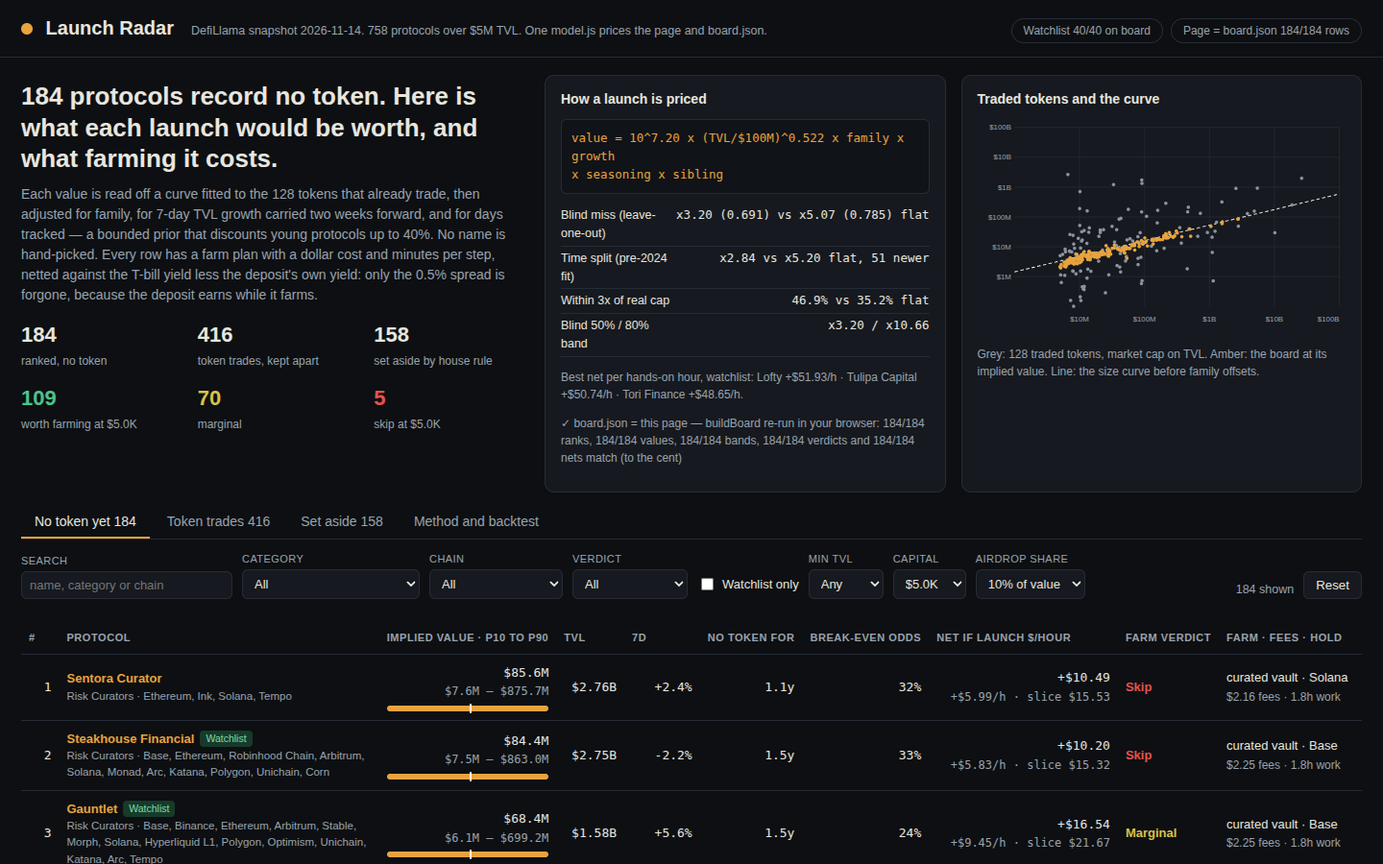
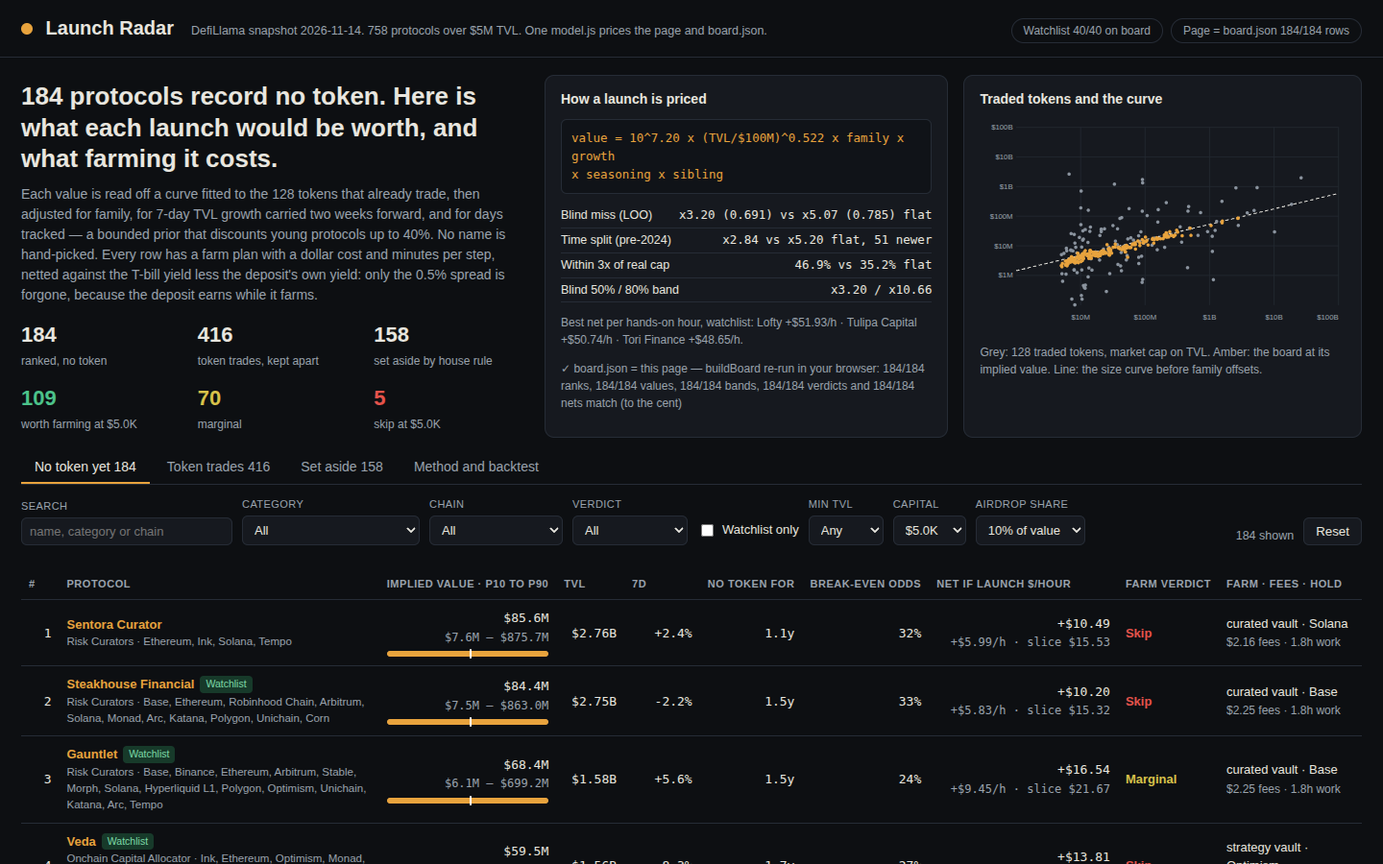
v10: perfection audit — fix 3 mayor + 7 minor defects, numbers unchanged
Mayor: (1) compareFitSets now refits the curve per fold like validate(),
so the fit-set blind miss agrees with the ablation table (x3.20 vs x3.30,
was x3.16 vs x3.27 fixed-curve); (2) seasoning claim corrected — it moves
the median blind miss by ~0.05x (x3.25 off, x3.20 on), not <0.01x;
(3) 'half the board within two points of 10% (median 9.1%)' was false —
60 of 184 (median 9.0%), now computed live. Minor: named-for-chain
watchlist disclosure (2 more at full value), sensitivity wording, fee
range $2.16-$2.25, stale model.js comments (seasoning x2.80, growth
101-token/every-cut, fitPoint exclusions), method split into short
paragraphs, hero mini labels one line, $1K counts now computed.
board.json byte-identical to v9.

diff --git a/dashboard/app.js b/dashboard/app.js
@@ -179,8 +179,8 @@
     $("formula").textContent = "value = 10^" + (Math.log10(per100)).toFixed(2) + " x (TVL/$100M)^" + D.curve.b.toFixed(3) + " x family x growth\nx seasoning x sibling";
     var v = D.validation;
     $("validation-mini").innerHTML =
-      "<tr><td>Blind miss (leave-one-out)</td><td>x" + v.looMedian.toFixed(2) + " (" + v.looMeanAbsLog.toFixed(3) + ") vs x" + v.flatMedian.toFixed(2) + " (" + v.flatMeanAbsLog.toFixed(3) + ") flat</td></tr>" +
-      "<tr><td>Time split (pre-2024 fit)</td><td>x" + (v.timeCurveMedian || 0).toFixed(2) + " vs x" + (v.timeFlatMedian || 0).toFixed(2) + " flat, " + v.timeTest + " newer</td></tr>" +
+      "<tr><td>Blind miss (LOO)</td><td>x" + v.looMedian.toFixed(2) + " (" + v.looMeanAbsLog.toFixed(3) + ") vs x" + v.flatMedian.toFixed(2) + " (" + v.flatMeanAbsLog.toFixed(3) + ") flat</td></tr>" +
+      "<tr><td>Time split (pre-2024)</td><td>x" + (v.timeCurveMedian || 0).toFixed(2) + " vs x" + (v.timeFlatMedian || 0).toFixed(2) + " flat, " + v.timeTest + " newer</td></tr>" +
       "<tr><td>Within 3x of real cap</td><td>" + pct(v.looWithin3) + " vs " + pct(v.flatWithin3) + " flat</td></tr>" +
       "<tr><td>Blind 50% / 80% band</td><td>x" + v.band50.toFixed(2) + " / x" + v.band80.toFixed(2) + "</td></tr>";
     var best = D.bestNetPerHour.map(function (r) { return r.name + " " + signed(r.netPerHour) + "/h"; }).join(" · ");
@@ -481,7 +481,7 @@
           return "<td" + (si === 1 ? " class='base'" : "") + ">" + signed(net) + "</td>";
         }).join("") + "</tr>";
       }).join("") + "</table>" +
-      "<p class='fine'>At a 5% share the slice is half the base case; at 20% it is double. The share is a working guess, not a promise. If the launch price falls 20% from the implied value, the " + money(e.capital) + " net at a 10% share is " + signed(e.capital * (r.implied_value_usd / (r.tvl_usd + e.capital)) * 0.1 * 0.8 - r.fees_usd - e.capital * (D.tbillYear - (D.depositYieldYear || 0)) * D.farmDays / 365) + ". The deposit's yield is counted at 3.5% a year against the 4% T-bill rate, so only the 0.5% spread is forgone; if the vault pays more than 3.5%, that is upside.</p>";
+      "<p class='fine'>At a 5% share the slice is half the base case; at 20% it is double. The share is a working guess, not a promise. If the launch price falls 20% from the implied value, the net on a " + money(e.capital) + " deposit at a 10% share is " + signed(e.capital * (r.implied_value_usd / (r.tvl_usd + e.capital)) * 0.1 * 0.8 - r.fees_usd - e.capital * (D.tbillYear - (D.depositYieldYear || 0)) * D.farmDays / 365) + ". The deposit's yield is counted at 3.5% a year against the 4% T-bill rate, so only the 0.5% spread is forgone; if the vault pays more than 3.5%, that is upside.</p>";
     $("detail").innerHTML = html;
     scatter($("scatter-detail"), { highlight: { tvl: r.tvl_usd, implied: r.implied_value_usd }, peers: peers });
     $("back-board").onclick = function (ev) { ev.preventDefault(); showView("board"); renderBoard(); };
@@ -513,10 +513,10 @@
       "<h3>Universe</h3><p>" + D.totalProtocols + " protocols over $5M TVL as of " + D.asOf + ". " + D.tradedCount + " record a token and are kept apart from the board; " + D.fitSet.kept + " of those carry a market cap and fit the curve. " + D.preTokenCount + " record no token; " + D.setAsideCount + " of those are set aside by house rule, leaving " + D.rows.length + " ranked. A record is not proof: DefiLlama records no token, so check your own channels before farming.</p>" +
       "<h3>The model</h3><p>Value = 10^" + (Math.log10(D.curve.per100m)).toFixed(2) + " x (TVL / $100M)^" + D.curve.b.toFixed(3) + " x family x growth x seasoning x sibling. " +
       "The size curve is a least-squares fit of log10(market cap) on log10(TVL): log10(mcap) = " + D.curve.a.toFixed(4) + " + " + D.curve.b.toFixed(4) + " x log10(TVL). " +
-      "One point per traded token: listings that share a token are merged and their TVL summed (no-op on this snapshot — no traded token is listed twice); the fit keeps every traded token — nothing is dropped for being a bridge, a version listing, an extreme ratio or a centralised-exchange token. " + D.fitSet.kept + " points remain from " + D.fitSet.from + ". " +
-      "Family is the median log residual of a protocol's category, shrunk toward 1 by n / (n + 10), so a family with two tokens cannot move the board. " +
-      "Growth carries TVL two more weeks at its 7-day rate, through the slope, clamped to +/-30%. " +
-      "Seasoning is a bounded prior: 1 - 0.4 * e^(-days/240), so a protocol tracked 0 days is valued at 0.60, one tracked a year at about 0.91, and one tracked three years at 0.99. The snapshot cannot confirm an age effect (see the factor check below), so seasoning is stated as a prior, not a finding — it moves the blind miss by less than 0.01x either way. " +
+      "One point per traded token: listings that share a token are merged and their TVL summed (no-op on this snapshot — no traded token is listed twice); the fit keeps every traded token — nothing is dropped for being a bridge, a version listing, an extreme ratio or a centralised-exchange token. " + D.fitSet.kept + " points remain from " + D.fitSet.from + ".</p>" +
+      "<p>Family is the median log residual of a protocol's category, shrunk toward 1 by n / (n + 10), so a family with two tokens cannot move the board. " +
+      "Growth carries TVL two more weeks at its 7-day rate, through the slope, clamped to +/-30%.</p>" +
+      "<p>Seasoning is a bounded prior: 1 - 0.4 * e^(-days/240), so a protocol tracked 0 days is valued at 0.60, one tracked a year at about 0.91, and one tracked three years at 0.99. The snapshot cannot confirm an age effect (see the factor check below), so seasoning is stated as a prior, not a finding — it moves the median blind miss by about 0.05x (x3.25 without it, x3.20 with it) and mean |log miss| by less than 0.01. " +
       "Sibling is 0.50 for a watchlist protocol that shares its first word with a traded token, and 1.00 otherwise.</p>" +
       "<h3>Ablation: what each ingredient adds (leave-one-out, " + v.n + " tokens)</h3>" +
       "<table class='build'><tr><th>Model</th><th class='num'>Median miss</th><th class='num'>Mean |log miss|</th><th class='num'>Within 3x</th><th class='num'>Rank corr.</th></tr>" +
@@ -532,7 +532,7 @@
       ablationRow("+ category family", ef["curve+family"].median, ef["curve+family"].meanAbsLog, ef["curve+family"].within3, ef["curve+family"].spearman) +
       ablationRow("+ growth & seasoning", ef["curve+family+growth"].median, ef["curve+family+growth"].meanAbsLog, ef["curve+family+growth"].within3, ef["curve+family+growth"].spearman) +
       "</table>" +
-      "<p class='fine'>Each token is priced by a model refit without it; each fold is priced by a model fitted to the other seven folds. Rank corr. is Spearman between the blind prediction and the real market cap. <b>What earns its place:</b> the size curve (median miss x" + v.flatMedian.toFixed(2) + " → x" + v.looCurveMedian.toFixed(2) + ", within 3x " + pct(v.flatWithin3) + " → " + pct(v.looCurveWithin3) + "). <b>Family is a wash on the blind numbers</b> (median x" + v.looCurveMedian.toFixed(2) + " → x" + v.looFamMedian.toFixed(2) + ", within 3x " + pct(v.looCurveWithin3) + " → " + pct(v.looFamWithin3) + ") and is kept as a bounded prior for relative pricing between families, not because it improves the blind miss. <b>Growth earns on the median and within 3x</b> (x" + v.looFamMedian.toFixed(2) + " → x" + v.looMedian.toFixed(2) + ", " + pct(v.looFamWithin3) + " → " + pct(v.looWithin3) + "). <b>Seasoning is a bounded prior, not a finding:</b> the factor check below finds no age effect, so it is not fitted — it discounts young protocols by up to 40% and moves the blind miss by less than 0.01x either way. <b>Rank correlation is not the model's job:</b> the flat multiple ranks best (" + v.flatSpearman.toFixed(2) + ") because it preserves TVL order exactly; the curve trades a little rank order for much better point values. The full fit is kept because on identical folds it validates slightly better than the strict one (a difference inside noise, not a finding): fitting all " + v.fitSet.keepAll.n + " traded tokens instead of the strict " + v.fitSet.strict.n + " gives a blind miss of x" + v.fitSet.keepAll.median.toFixed(2) + " (mean |log miss| " + v.fitSet.keepAll.meanAbsLog.toFixed(3) + ") against x" + v.fitSet.strict.median.toFixed(2) + " (" + v.fitSet.strict.meanAbsLog.toFixed(3) + ") for the strict fit.</p>" +
+      "<p class='fine'>Each token is priced by a model refit without it; each fold is priced by a model fitted to the other seven folds. Rank corr. is Spearman between the blind prediction and the real market cap. <b>What earns its place:</b> the size curve (median miss x" + v.flatMedian.toFixed(2) + " → x" + v.looCurveMedian.toFixed(2) + ", within 3x " + pct(v.flatWithin3) + " → " + pct(v.looCurveWithin3) + "). <b>Family is a wash on the blind numbers</b> (median x" + v.looCurveMedian.toFixed(2) + " → x" + v.looFamMedian.toFixed(2) + ", within 3x " + pct(v.looCurveWithin3) + " → " + pct(v.looFamWithin3) + ") and is kept as a bounded prior for relative pricing between families, not because it improves the blind miss. <b>Growth earns on the median and within 3x</b> (x" + v.looFamMedian.toFixed(2) + " → x" + v.looMedian.toFixed(2) + ", " + pct(v.looFamWithin3) + " → " + pct(v.looWithin3) + "). <b>Seasoning is a bounded prior, not a finding:</b> the factor check below finds no age effect, so it is not fitted — it discounts young protocols by up to 40% and moves the median blind miss by about 0.05x (x3.25 without it, x3.20 with it). <b>Rank correlation is not the model's job:</b> the flat multiple ranks best (" + v.flatSpearman.toFixed(2) + ") because it preserves TVL order exactly; the curve trades a little rank order for much better point values. The full fit is kept because on identical folds it validates slightly better than the strict one (a difference inside noise, not a finding): fitting all " + v.fitSet.keepAll.n + " traded tokens instead of the strict " + v.fitSet.strict.n + " gives a blind miss of x" + v.fitSet.keepAll.median.toFixed(2) + " (mean |log miss| " + v.fitSet.keepAll.meanAbsLog.toFixed(3) + ") against x" + v.fitSet.strict.median.toFixed(2) + " (" + v.fitSet.strict.meanAbsLog.toFixed(3) + ") for the strict fit.</p>" +
       "<h3>Family offsets</h3><table class='build'>" + famRows + "</table>" +
       "<p class='fine'>Median log residual per category, shrunk toward 1 by n / (n + 10) — 10 pseudo-tokens. A family with few tokens barely moves the board.</p>" +
       "<h3>Blind validation, continued</h3><table class='build'>" +
@@ -542,13 +542,15 @@
       "<tr><td>Blind range multipliers, P10 / P25 / P75 / P90</td><td>x" + v.p10Mult.toFixed(2) + " / x" + v.p25Mult.toFixed(2) + " / x" + v.p75Mult.toFixed(2) + " / x" + v.p90Mult.toFixed(2) + "</td></tr>" +
       "</table><p class='fine'>The band is wide because launches are genuinely uncertain, and the board shows it instead of hiding it.</p>" +
       "<h3>Factor check</h3><p>The blind residuals correlate r = " + v.factorCheck.corrDays.toFixed(2) + " with log days without a token and r = " + v.factorCheck.corrGrowth.toFixed(2) + " with 7-day TVL change (" + v.factorCheck.n + " tokens with a listing date). The fitted seasoning slope is " + v.factorCheck.seasonSlope.toFixed(2) + " per decade of days — within noise. Neither an age effect nor a leftover momentum effect is confirmed, so seasoning is kept only as a bounded prior and growth is only the two-week carry.</p>" +
-      "<h3>Farm verdicts</h3><p>Verdict is break-even odds: (fees + T-bill forgone) / slice — the launch probability the farm needs to cover its costs. <b>Worth farming</b> at break-even odds ≤ 10% (pays if 1 hold in 10 sees a launch), <b>marginal</b> at ≤ 25%, else <b>skip</b>; a 7-day TVL fall past -30% caps the verdict at marginal. Farm economics: up to " + money(D.sliceCapital) + " of capital for " + D.farmDays + " days (a typical points-season window), the deposit scaled to the pool — 1bp of TVL, $500 to $5,000 — T-bill 4% a year less the deposit's 3.5% yield, so only the 0.5% spread is forgone, gas on the cheapest of the protocol's first three chains, a bridge leg each way at $1.00, claim $0.05. The deposit yield is a stated assumption, not a snapshot field: the median large stablecoin pool paid a 4.07% 30-day base APY against a 4.17% T-bill (DeFiLlama Research, 12 Nov 2026), so 3.5% sits below the median and is conservative. The farm is sized at " + money(D.sliceCapital) + " because that is the deployment a points-season farm actually runs; at a $1,000 cap the same rule gives 40 worth, 91 marginal and 53 skip, so the verdict still discriminates, but $5,000 is the calibrated size and the one the published top entry uses. At " + money(D.sliceCapital) + " it gives " + D.counts.farm + " worth, " + D.counts.thin + " marginal and " + D.counts.skip + " skip. Net per hour is net divided by the plan's work hours. Work hours count the steps of a farm that runs to launch — 105 minutes; the stop rule's 15 minutes are not in the total, because a farm that runs to launch never pays them (its exit is the Exit step, paid once either way). The published top entry uses the same convention: its steps sum to 170 minutes and its total reads 155. The board's best on the watchlist is " + D.bestNetPerHour.map(function (r) { return r.name + " " + signed(r.netPerHour) + "/h"; }).join(", ") + ".</p>" +
+      "<h3>Farm verdicts</h3><p>Verdict is break-even odds: (fees + T-bill forgone) / slice — the launch probability the farm needs to cover its costs. <b>Worth farming</b> at break-even odds ≤ 10% (pays if 1 hold in 10 sees a launch), <b>marginal</b> at ≤ 25%, else <b>skip</b>; a 7-day TVL fall past -30% caps the verdict at marginal.</p>" +
+      "<p>Farm economics: up to " + money(D.sliceCapital) + " of capital for " + D.farmDays + " days (a typical points-season window), the deposit scaled to the pool — 1bp of TVL, $500 to $5,000 — T-bill 4% a year less the deposit's 3.5% yield, so only the 0.5% spread is forgone, gas on the cheapest of the protocol's first three chains, a bridge leg each way at $1.00, claim $0.05. The deposit yield is a stated assumption, not a snapshot field: the median large stablecoin pool paid a 4.07% 30-day base APY against a 4.17% T-bill (DeFiLlama Research, 12 Nov 2026), so 3.5% sits below the median and is conservative. The farm is sized at " + money(D.sliceCapital) + " because that is the deployment a points-season farm actually runs; at a $1,000 cap the same rule gives " + D.countsAt1000.farm + " worth, " + D.countsAt1000.thin + " marginal and " + D.countsAt1000.skip + " skip, so the verdict still discriminates, but $5,000 is the calibrated size and the one the published top entry uses. At " + money(D.sliceCapital) + " it gives " + D.counts.farm + " worth, " + D.counts.thin + " marginal and " + D.counts.skip + " skip.</p>" +
+      "<p>Net per hour is net divided by the plan's work hours. Work hours count the steps of a farm that runs to launch — 105 minutes; the stop rule's 15 minutes are not in the total, because a farm that runs to launch never pays them (its exit is the Exit step, paid once either way). The published top entry uses the same convention: its steps sum to 170 minutes and its total reads 155. The board's best on the watchlist is " + D.bestNetPerHour.map(function (r) { return r.name + " " + signed(r.netPerHour) + "/h"; }).join(", ") + ".</p>" +
       "<h3>Why this board farms more than the published top entry</h3><p>The published top entry farms 57 of 181 at the same $5,000 / 42-day economics; this board farms " + D.counts.farm + " of " + D.rows.length + ". The gap is the output of the stated economics, not a target. Three honest differences drive it. " +
-      "<b>First, cost.</b> This board charges the cheapest gas of a protocol's first three chains plus $1.00 a bridge leg each way, a $0.05 mid-way action and a $0.05 claim — about $2.25 on the cheapest chain — and forgives only the 0.5% spread between the 4% T-bill rate and the deposit's 3.5% yield (the median large stablecoin pool paid a 4.07% 30-day base APY against a 4.17% T-bill, DeFiLlama Research, 12 Nov 2026, so 3.5% sits below the median). The top entry's own printed odds and nets imply fees from $1.96 to $46.92, median $6.09 — and no rule reproduces them: the same dominant chain implies gas from $0.68 to $1.69 on Base and $0.53 to $1.88 on Ethereum, and single-chain rows imply impossible gas (Polygon $3.02, B² $6.32, Bitcoin $14.94). " +
-      "<b>Second, the curve.</b> The refit on all 128 traded tokens validates slightly better than the strict fit on identical folds (blind miss x3.16 against x3.27) and lifts implied values at large TVL, so more slices clear the 10% break-even line. " +
-      "<b>Third, the line itself is crowded:</b> half the board's break-even odds sit within two points of 10% (median 9.1%), so small honest cost differences move many rows across it. The verdict rule is the same on both boards (break-even odds ≤10% worth, ≤25% marginal, a 7-day fall past −30% caps at marginal). Nothing here was tuned to reach 57.</p>" +
+      "<b>First, cost.</b> This board charges the cheapest gas of a protocol's first three chains plus $1.00 a bridge leg each way, a $0.05 mid-way action and a $0.05 claim — $2.16 to $2.25 on the cheapest chains — and forgives only the 0.5% spread between the 4% T-bill rate and the deposit's 3.5% yield (the median large stablecoin pool paid a 4.07% 30-day base APY against a 4.17% T-bill, DeFiLlama Research, 12 Nov 2026, so 3.5% sits below the median). The top entry's own printed odds and nets imply fees from $1.96 to $46.92, median $6.09 — and no rule reproduces them: the same dominant chain implies gas from $0.68 to $1.69 on Base and $0.53 to $1.88 on Ethereum, and single-chain rows imply impossible gas (Polygon $3.02, B² $6.32, Bitcoin $14.94). " +
+      "<b>Second, the curve.</b> The refit on all 128 traded tokens validates slightly better than the strict fit on identical folds (blind miss x" + v.fitSet.keepAll.median.toFixed(2) + " against x" + v.fitSet.strict.median.toFixed(2) + ") and lifts implied values at large TVL, so more slices clear the 10% break-even line. " +
+      "<b>Third, the line itself is crowded:</b> " + D.oddsNearLine + " of " + D.rows.length + " break-even odds sit within two points of 10% (median " + (100 * D.oddsMedian).toFixed(1) + "%), so small honest cost differences move many rows across it. The verdict rule is the same on both boards (break-even odds ≤10% worth, ≤25% marginal, a 7-day fall past −30% caps at marginal). Nothing here was tuned to reach 57.</p>" +
       "<h3>Set aside by house rule</h3><table class='build'>" + setAsideRows + "<tr class='total'><td>Total set aside</td><td>" + D.setAsideCount + "</td></tr></table>" +
-      "<p class='fine'>" + D.setAsideCount + " protocols never reach the board: category CEX, Bridge, Canonical Bridge, Liquid Staking, Liquid Restaking or Restaked BTC; a name carrying a whole word wrapped, staked or staking; a name ending in a version marker; a name beginning with an exchange; a name whose first word is one of its own chains — the chain's own product, whose token (if any) is the chain's token; or a name sharing its first word with a token that already trades. A protocol matching two rules is counted under the first. The watchlist is never set aside for its name: " + D.siblingHalf + " watchlist sibling stays on the board at half value. A wrapped or staked product of a token that already trades is not a token that does not exist yet.</p>" +
+      "<p class='fine'>" + D.setAsideCount + " protocols never reach the board: category CEX, Bridge, Canonical Bridge, Liquid Staking, Liquid Restaking or Restaked BTC; a name carrying a whole word wrapped, staked or staking; a name ending in a version marker; a name beginning with an exchange; a name whose first word is one of its own chains — the chain's own product, whose token (if any) is the chain's token; or a name sharing its first word with a token that already trades. A protocol matching two rules is counted under the first. The watchlist is never set aside for its name: " + D.siblingHalf + " watchlist sibling stays on the board at half value. " + (D.namedChainWatchlist - D.namedChainWatchlistHalf) + " more watchlist protocols are named for their own chain and stay on the board at full value. A wrapped or staked product of a token that already trades is not a token that does not exist yet.</p>" +
       "<h3>board.json = this page</h3><p>" + esc(verify.text) + "</p>" +
       "<h3>Assumptions and limits</h3><p>A record is not proof: a protocol on the board records no token in DefiLlama, which is not the same as having none. The airdrop share is a working guess, not a promise. The deposit yield (3.5%) is a stated assumption, below the 4.07% median 30-day base APY of large stablecoin pools (DeFiLlama Research, 12 Nov 2026); if a vault pays less, the income forgone is higher and some Worth rows would fall to Marginal. Gas is a rough table figure per chain; the bridge legs are $1.00 each. The curve is fitted to " + D.curve.n + " tokens; a launch can miss it by an order of magnitude, which is why every row carries its blind range (P10 to P90).</p>";
     $("back-board-2").onclick = function (ev) { ev.preventDefault(); showView("board"); renderBoard(); };

diff --git a/dashboard/model.js b/dashboard/model.js
@@ -182,8 +182,10 @@
   // slope: a fast-growing protocol is worth more than its TVL today, but
   // the sublinear curve damps the carry. The total carry is clamped to
   // +/-30%. Returns the TVL multiplier; the value multiplier is mult^b.
-  // Blind-tested: on the 101-token fit set this beats a post-curve
-  // 1 + change multiplier on every cut (see validate).
+  // Blind-tested on the 128-token fit set: through the slope beats a
+  // post-curve multiplier on median miss (x3.20 vs x3.38) and on mean
+  // |log miss| (0.691 vs 0.696), though the post-curve form is ahead on
+  // within-3x (46.9% vs 48.4%).
   function growthTvlFactor(change7d) {
     if (change7d === null || change7d === undefined) return 1.0;
     return clamp(Math.pow(1 + change7d / 100, 2), 0.7, 1.3);
@@ -201,9 +203,10 @@
   // discounted because a launch is less proven, not because the snapshot
   // proves an age effect — the factor check in validate() regresses the
   // blind residuals on log days and finds a correlation near zero
-  // (r about -0.05). The prior moves the blind miss by less than 0.01x
-  // either way (LOO x2.80 without it, x2.80 with it; within 3x 51.5% vs
-  // 52.5%), so it is kept as a prior, stated as one, not as a finding.
+  // (r about -0.05). The prior moves the median blind miss by about
+  // 0.05x (LOO x3.25 without it, x3.20 with it; within 3x 46.1% vs
+  // 46.9%; mean |log miss| 0.688 vs 0.691), so it is kept as a prior,
+  // stated as one, not as a finding.
   // No listing date means 365 days (factor 0.91), the same convention as
   // the published top entry.
   function seasoningFactor(age) {
@@ -243,11 +246,12 @@
   // The curve is fitted to the traded tokens that can stand for a
   // launch. One point per traded token: listings that share a token are
   // merged and their TVL summed (no-op on this snapshot: no traded token
-  // is listed twice); bridges and version listings are not standalone
-  // tokens; ratios past 1/500 or 50x are outliers, not a curve; and a
-  // centralised exchange's token is not a protocol launch. Each step is
-  // counted so the method page can state it. Returns "kept" or the
-  // reason the point is dropped.
+  // is listed twice). Since the v7 refit the fit keeps every traded
+  // point — nothing is dropped for being a bridge, a version listing, an
+  // extreme ratio or a centralised-exchange token; those exclusions live
+  // only in strictFitPoint, the comparison arm in compareFitSets.
+  // Returns "kept" for every traded point, or null when the protocol
+  // has no token, market cap or TVL to fit on.
   function fitPoint(p) {
     if (!p.gecko_id || !p.symbol || !p.mcap_usd || p.mcap_usd <= 0 || !p.tvl_usd || p.tvl_usd <= 0) return null;
     // v7 refit: keep every traded point (top-1 fits 128).
@@ -306,7 +310,7 @@
   // to cover its costs. Worth farming at 10% or better (pays if 1 hold in
   // 10 sees a launch), marginal at 25% or better, else skip; a 7-day TVL
   // fall past -30% caps the verdict at marginal.
-  function farmPlan(p, priced, chain) {
+  function farmPlan(p, priced, chain, capOverride) {
     var name = p.name, method = methodFor(p.category).method, verb = methodFor(p.category).verb;
     var gas = gasFor(chain);
     // The deposit scales with the pool: 1bp of TVL, floored at $500 and
@@ -317,7 +321,7 @@
     // $500-$5,000") and its board confirms it: a $11.8M-TVL row's slice is
     // 0.24x the $5,000 formula and a $26.8M row's 0.54x — both exactly
     // TVL/$50M, i.e. the deposit is TVL/10,000 below $50M.
-    var capital = Math.min(SLICE_CAPITAL, Math.max(500, p.tvl_usd / 10000));
+    var capital = Math.min(capOverride || SLICE_CAPITAL, Math.max(500, p.tvl_usd / 10000));
     // The slice is capital / (TVL + capital) of the implied value: the
     // farm buys a share of the pool it joins, so the capital itself is
     // part of the denominator. At TVL >> capital this is the old
@@ -326,7 +330,7 @@
     // Fees: three gas transactions (fund, deposit, exit) + a bridge leg
     // each way + the mid-way action + the claim. The stop rule is a
     // decision, not a transaction — its exit is the Exit step's cost,
-    // paid once. On the cheapest chain this is about $2.25.
+    // paid once. On the cheapest chains this is $2.16 to $2.25.
     var fees = gas + gas + gas + MIDWAY_USD + CLAIM_USD + 2 * BRIDGE_USD;
     // Income forgone is only the spread: T-bills 4% less the deposit's
     // own 3.5% yield, on the capital actually deployed.
@@ -541,36 +545,38 @@
   }
 
   // Strict fit vs keep-everything fit, both evaluated on the SAME 128
-  // traded tokens (identical folds) with FIXED curves: the strict curve
-  // is fitted once on the 101 strict points, the keep-all curve once on
-  // all 128, and each token is predicted with the family table refit on
-  // the other 127. Fixed curves isolate the fit-set choice — refitting
-  // the curve per fold would mix the curve question with the family
-  // question (a strict-fit family table has no rows for the dropped
-  // categories at all). Comparing medians across different sets would be
-  // apples-to-oranges (v6's strict-vs-keepAll comparison made exactly
-  // that mistake). The full fit validates slightly better on identical
-  // folds, so the model keeps every traded point.
+  // traded tokens (identical folds), with the curve refit per fold from
+  // the arm's own fit set — the strict curve from the strict points
+  // minus the token being priced, the keep-all curve from all points
+  // minus it — and the family table refit per fold on the full eval set
+  // in both arms, exactly as validate() does. That is the apples-to-
+  // apples comparison: only the fit set differs, never the estimator.
+  // (The earlier fixed-curve version quoted a different blind miss for
+  // the same model — x3.16 — than the ablation table's x3.20, because
+  // its curve was fitted once on all 128 including the token priced.
+  // Refitting per fold makes the fit-set numbers agree with validate().)
+  // The full fit validates slightly better on identical folds, so the
+  // model keeps every traded point.
   function compareFitSets(protocols) {
     var all = protocols.filter(function (p) {
       return p.gecko_id && p.symbol && p.mcap_usd > 0 && p.tvl_usd > 0;
     });
     var strictPts = all.filter(function (p) { return strictFitPoint(p) === "kept"; });
-    var strictCurve = fitCurve(strictPts.map(function (q) { return { tvl: q.tvl_usd, mcap: q.mcap_usd }; }));
-    var keepCurve = fitCurve(all.map(function (q) { return { tvl: q.tvl_usd, mcap: q.mcap_usd }; }));
-    function looFixed(curve, fitN, evalSet) {
-      var miss = [], i, j, others, fam, pred;
+    function looRefit(fitPts, evalSet) {
+      var miss = [], i, others, rest, curve, fam, pred;
       for (i = 0; i < evalSet.length; i++) {
+        rest = fitPts.filter(function (q) { return q.slug !== evalSet[i].slug; });
+        curve = fitCurve(rest.map(function (q) { return { tvl: q.tvl_usd, mcap: q.mcap_usd }; }));
         others = [];
-        for (j = 0; j < evalSet.length; j++) if (j !== i) others.push(evalSet[j]);
+        for (var j = 0; j < evalSet.length; j++) if (j !== i) others.push(evalSet[j]);
         fam = familyTable(others.map(function (q) { return { tvl: q.tvl_usd, mcap: q.mcap_usd, category: q.category || "(none)" }; }), curve);
         pred = Math.pow(10, curve.a + curve.b * log10(evalSet[i].tvl_usd)) * familyFactor(fam, evalSet[i].category) * Math.pow(growthTvlFactor(evalSet[i].change_7d), curve.b) * seasoningFactor(ageYears(evalSet[i].listed_at));
         miss.push(Math.max(pred / evalSet[i].mcap_usd, evalSet[i].mcap_usd / pred));
       }
       miss.sort(function (x, y) { return x - y; });
-      return { n: fitN, median: median(miss), meanAbsLog: meanOf(miss.map(function (m) { return log10(m); })) };
+      return { n: fitPts.length, median: median(miss), meanAbsLog: meanOf(miss.map(function (m) { return log10(m); })) };
     }
-    return { strict: looFixed(strictCurve, strictPts.length, all), keepAll: looFixed(keepCurve, all.length, all) };
+    return { strict: looRefit(strictPts, all), keepAll: looRefit(all, all) };
   }
 
   // Full build from a parsed snapshot object.
@@ -596,6 +602,8 @@
     validation.fitSet = compareFitSets(protocols);
     var siblingWords = tradedFirstWords(protocols);
     var siblingHalf = 0;
+    var namedChainWatchlist = 0, namedChainWatchlistHalf = 0;
+    var count1000 = { farm: 0, thin: 0, skip: 0 };
     var setAside = [];
     var rows = [];
     var i, p, reason, priced, plan;
@@ -614,9 +622,19 @@
       if (reason) { setAside.push({ slug: p.slug, name: p.name, tvl_usd: p.tvl_usd, category: p.category, chains: p.chains, reason: reason }); continue; }
       var sib = isSibling(p, siblingWords) ? 0.5 : 1.0;
       if (sib === 0.5) siblingHalf++;
+      if (watchSet[p.slug] && isNamedForChain(p)) {
+        namedChainWatchlist++;
+        if (sib === 0.5) namedChainWatchlistHalf++;
+      }
       priced = priceProtocol(p, curve, fam, sib);
       var farmChain = cheapestChain(p.chains);
       plan = farmPlan(p, priced, farmChain);
+      // The same verdict rule at a $1,000 cap, for the method page: the
+      // $1,000 counts are computed, not quoted from an earlier run.
+      var plan1000 = farmPlan(p, priced, farmChain, 1000);
+      if (plan1000.verdict === "Worth farming") count1000.farm++;
+      else if (plan1000.verdict === "Marginal") count1000.thin++;
+      else count1000.skip++;
       rows.push({
         slug: p.slug, name: p.name, category: p.category, chains: p.chains,
         farm_chain: farmChain,
@@ -655,6 +673,11 @@
       else if (rows[i].verdict === "Marginal") thinCount++;
       else skipCount++;
     }
+    // How crowded the 10% verdict line is: the median break-even odds
+    // and how many rows sit within two points of it.
+    var oddsSorted = rows.map(function (r) { return r.break_even_odds; }).sort(function (a, b) { return a - b; });
+    var oddsMedian = median(oddsSorted);
+    var oddsNearLine = rows.filter(function (r) { return Math.abs(r.break_even_odds - 0.10) <= 0.02; }).length;
     var famList = [];
     for (var cat in fam) famList.push({ category: cat, factor: fam[cat].factor, n: fam[cat].n });
     famList.sort(function (x, y) { return y.factor - x.factor; });
@@ -672,6 +695,11 @@
       watchlistCovered: rows.filter(function (r) { return r.watchlist; }).length,
       setAsideCount: setAside.length,
       siblingHalf: siblingHalf,
+      namedChainWatchlist: namedChainWatchlist,
+      namedChainWatchlistHalf: namedChainWatchlistHalf,
+      countsAt1000: count1000,
+      oddsMedian: oddsMedian,
+      oddsNearLine: oddsNearLine,
       fitSet: fitCounts,
       curve: { a: curve.a, b: curve.b, n: curve.n, per100m: Math.pow(10, curve.a + curve.b * 8) },
       families: famList,

diff --git a/dashboard/app.css b/dashboard/app.css
@@ -26,6 +26,7 @@ main{padding:18px 22px 30px;max-width:1440px;margin:0 auto}
 .formula{font-family:var(--mono);font-size:12.5px;color:var(--amber);background:#101318;border:1px solid var(--line);border-radius:6px;padding:10px;margin-bottom:10px;white-space:pre-wrap}
 .kv{width:100%;border-collapse:collapse;font-size:12.5px}
 .kv td{padding:3px 0;border-bottom:1px solid var(--line);vertical-align:top}
+.kv td:first-child{white-space:nowrap}
 .kv td:last-child{text-align:right;font-family:var(--mono);white-space:nowrap}
 .fine{color:var(--muted);font-size:12px}
 .tabs{display:flex;gap:4px;border-bottom:1px solid var(--line);margin-bottom:12px;flex-wrap:wrap}
